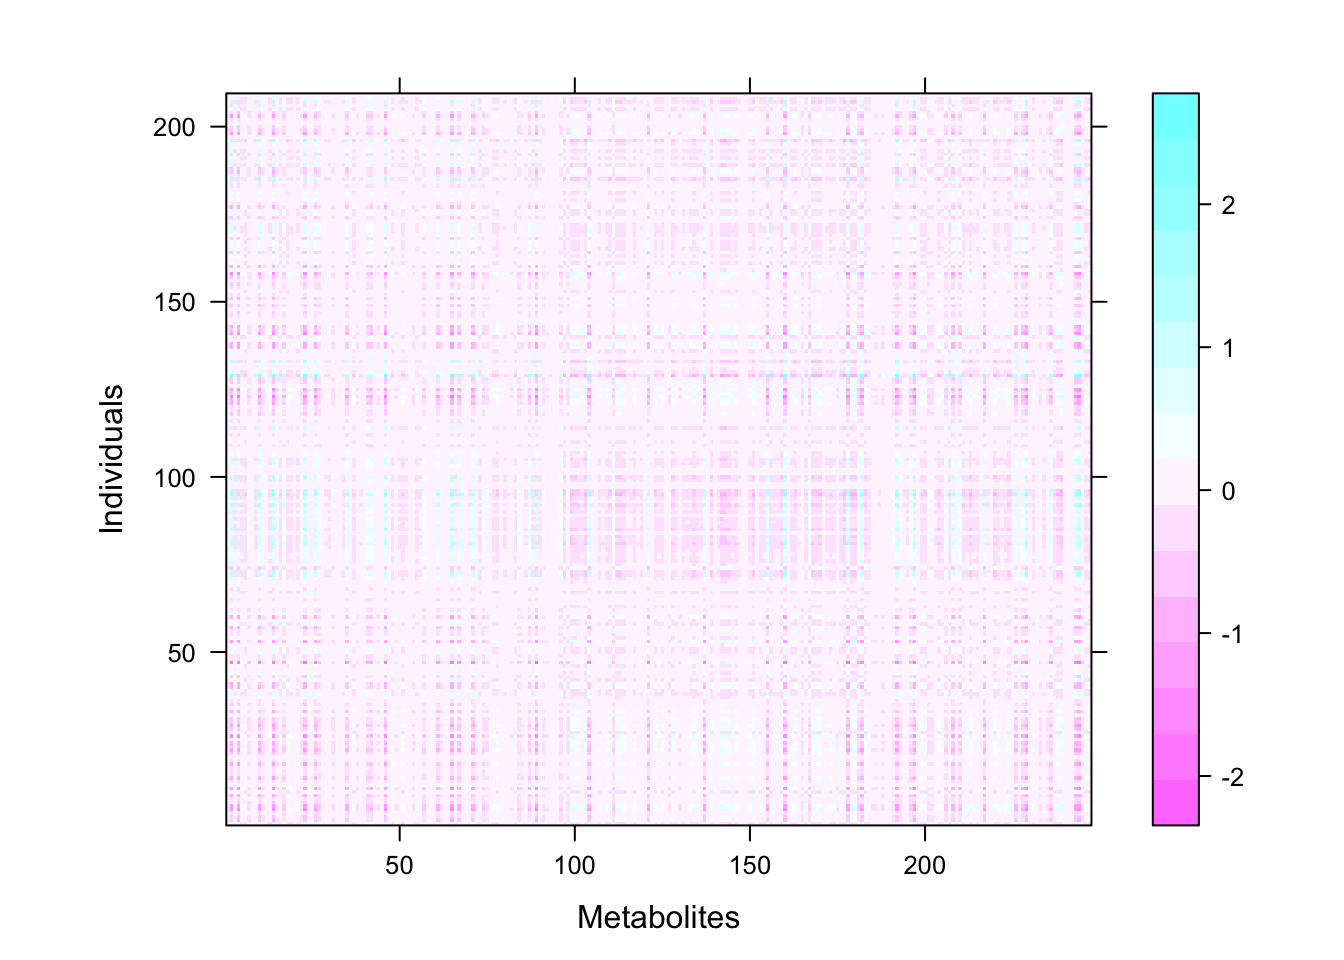
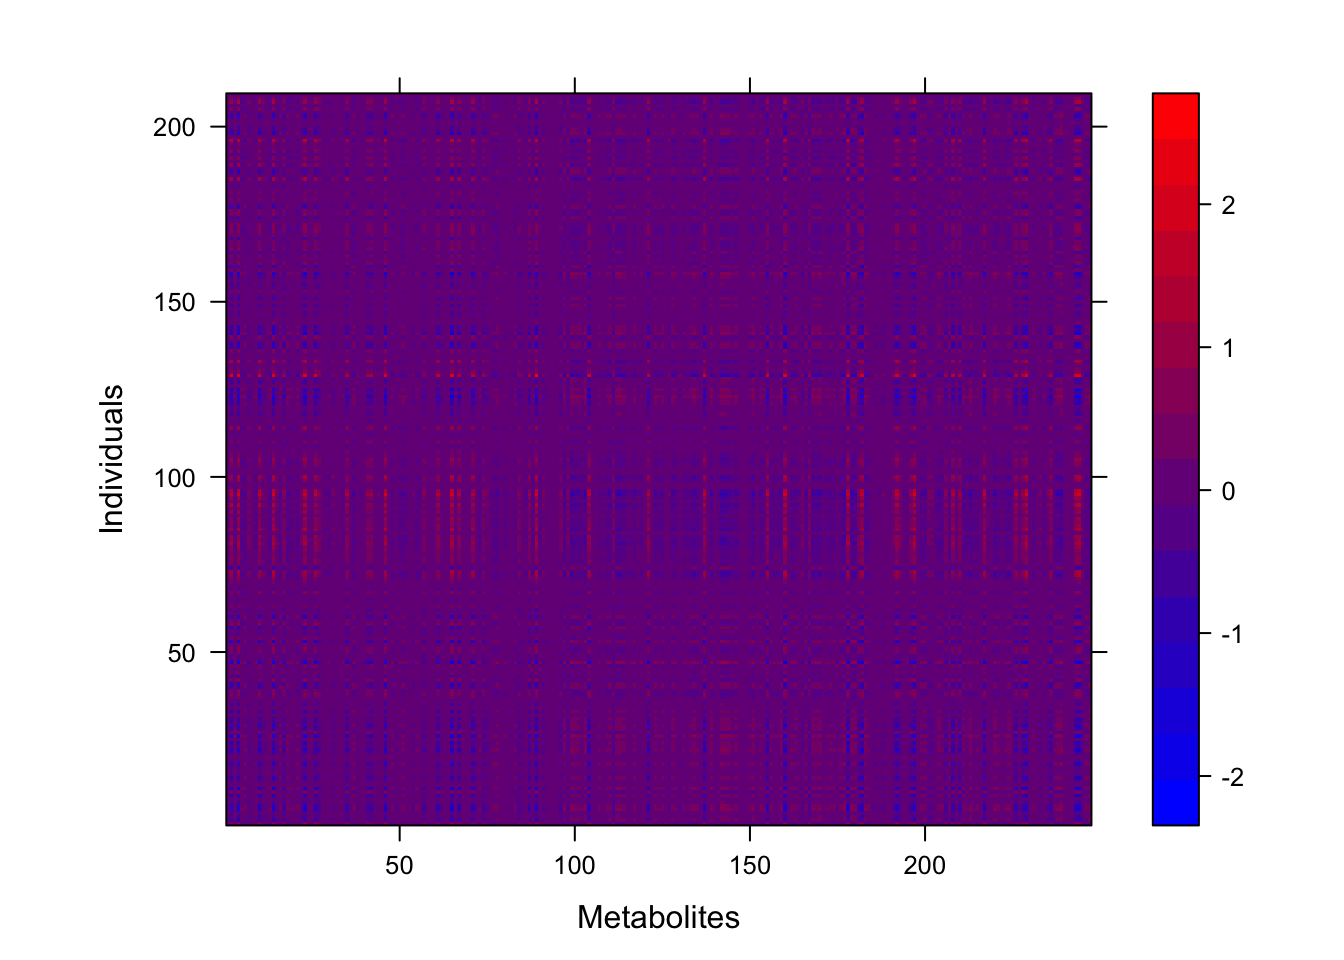
Build site.

diff --git a/docs/first-analysis.html b/docs/first-analysis.html
@@ -432,10 +432,10 @@ This reproducible <a href="http://rmarkdown.rstudio.com">R Markdown</a> analysis
 <div class="panel panel-default">
 <div class="panel-heading">
 <p class="panel-title">
-<a data-toggle="collapse" data-parent="#workflowr-checks" href="#strongRepositoryversionstrongahrefhttpsgithubcomsurbutKKScardiologytreef457f761bbc2e2518872e0af4d936db68d42323dtargetblankf457f76a"> <span class="glyphicon glyphicon-ok text-success" aria-hidden="true"></span> <strong>Repository version:</strong> <a href="https://github.com/surbut/KKScardiology/tree/f457f761bbc2e2518872e0af4d936db68d42323d" target="_blank">f457f76</a> </a>
+<a data-toggle="collapse" data-parent="#workflowr-checks" href="#strongRepositoryversionstrongahrefhttpsgithubcomsurbutKKScardiologytree7d48a7394a8110990b2e7b7ea2c8d1dcd46de533targetblank7d48a73a"> <span class="glyphicon glyphicon-ok text-success" aria-hidden="true"></span> <strong>Repository version:</strong> <a href="https://github.com/surbut/KKScardiology/tree/7d48a7394a8110990b2e7b7ea2c8d1dcd46de533" target="_blank">7d48a73</a> </a>
 </p>
 </div>
[2 lines of base64/hex data omitted]
 <div class="panel-body">
 <p>
 Great! You are using Git for version control. Tracking code development and connecting the code version to the results is critical for reproducibility. The version displayed above was the version of the Git repository at the time these results were generated. <br><br> Note that you need to be careful to ensure that all relevant files for the analysis have been committed to Git prior to generating the results (you can use <code>wflow_publish</code> or <code>wflow_git_commit</code>). workflowr only checks the R Markdown file, but you know if there are other scripts or data files that it depends on. Below is the status of the Git repository when the results were generated:
@@ -483,6 +483,40 @@ Message
 </tr>
 </thead>
 <tbody>
+<tr>
+<td>
+Rmd
+</td>
+<td>
+<a href="https://github.com/surbut/KKScardiology/blob/7d48a7394a8110990b2e7b7ea2c8d1dcd46de533/analysis/first-analysis.Rmd" target="_blank">7d48a73</a>
+</td>
+<td>
+Sarah Urbut
+</td>
+<td>
+2019-07-10
+</td>
+<td>
+wflow_publish(“analysis/first-analysis.rmd”)
+</td>
+</tr>
+<tr>
+<td>
+html
+</td>
+<td>
+<a href="https://rawcdn.githack.com/surbut/KKScardiology/4c8647c34333f4efd85571ce62b59b813cd54b16/docs/first-analysis.html" target="_blank">4c8647c</a>
+</td>
+<td>
+Sarah Urbut
+</td>
+<td>
+2019-07-10
+</td>
+<td>
+Build site.
+</td>
+</tr>
 <tr>
 <td>
 Rmd
@@ -795,6 +829,17 @@ Date
 <tbody>
 <tr>
 <td>
+<a href="https://github.com/surbut/KKScardiology/blob/4c8647c34333f4efd85571ce62b59b813cd54b16/docs/figure/first-analysis.Rmd/unnamed-chunk-3-1.png" target="_blank">4c8647c</a>
+</td>
+<td>
+Sarah Urbut
+</td>
+<td>
+2019-07-10
+</td>
+</tr>
+<tr>
+<td>
 <a href="https://github.com/surbut/KKScardiology/blob/6fa3037b58e5ef352cd5c311b82f124780a76dbf/docs/figure/first-analysis.Rmd/unnamed-chunk-3-1.png" target="_blank">6fa3037</a>
 </td>
 <td>
@@ -808,7 +853,7 @@ Sarah Urbut
 </table>
 </div>
 </div>
-<pre class="r"><code>print(levelplot(t(pcm1),#col.regions = clrs,
+<pre class="r"><code>print(levelplot(t(pcm1),col.regions = colorRampPalette(c(&quot;blue&quot;, &quot;red&quot;))( 100 ),
                 xlab = &quot;Metabolites&quot;,ylab = &quot;Individuals&quot;,colorkey = TRUE))</code></pre>
 <p><img src="figure/first-analysis.Rmd/unnamed-chunk-3-2.png" width="672" style="display: block; margin: auto;" /></p>
 <p>
@@ -835,6 +880,17 @@ Date
 <tbody>
 <tr>
 <td>
+<a href="https://github.com/surbut/KKScardiology/blob/4c8647c34333f4efd85571ce62b59b813cd54b16/docs/figure/first-analysis.Rmd/unnamed-chunk-3-2.png" target="_blank">4c8647c</a>
+</td>
+<td>
+Sarah Urbut
+</td>
+<td>
+2019-07-10
+</td>
+</tr>
+<tr>
+<td>
 <a href="https://github.com/surbut/KKScardiology/blob/038995d6a12a2b703599a0d1cef8c73b71cae227/docs/figure/first-analysis.Rmd/unnamed-chunk-3-2.png" target="_blank">038995d</a>
 </td>
 <td>
@@ -859,10 +915,8 @@ Sarah Urbut
 </table>
 </div>
 </div>
-<pre class="r"><code>print(levelplot(t(pcm2),colorRampPalette(c(&quot;blue&quot;, &quot;red&quot;))( 100 ),
+<pre class="r"><code>print(levelplot(t(pcm2),col.regions = colorRampPalette(c(&quot;blue&quot;, &quot;red&quot;))( 100 ),
                 xlab = &quot;Metabolites&quot;,ylab = &quot;Individuals&quot;,colorkey = TRUE))</code></pre>
-<pre><code>Warning in levelplot.matrix(t(pcm2), colorRampPalette(c(&quot;blue&quot;, &quot;red&quot;))
-(100), : explicit &#39;data&#39; specification ignored</code></pre>
 <p><img src="figure/first-analysis.Rmd/unnamed-chunk-3-3.png" width="672" style="display: block; margin: auto;" /></p>
 <p>
 <button type="button" class="btn btn-default btn-xs btn-workflowr btn-workflowr-fig" data-toggle="collapse" data-target="#fig-unnamed-chunk-3-3">
@@ -886,6 +940,17 @@ Date
 </tr>
 </thead>
 <tbody>
+<tr>
+<td>
+<a href="https://github.com/surbut/KKScardiology/blob/4c8647c34333f4efd85571ce62b59b813cd54b16/docs/figure/first-analysis.Rmd/unnamed-chunk-3-3.png" target="_blank">4c8647c</a>
+</td>
+<td>
+Sarah Urbut
+</td>
+<td>
+2019-07-10
+</td>
+</tr>
 <tr>
 <td>
 <a href="https://github.com/surbut/KKScardiology/blob/038995d6a12a2b703599a0d1cef8c73b71cae227/docs/figure/first-analysis.Rmd/unnamed-chunk-3-3.png" target="_blank">038995d</a>
@@ -912,10 +977,8 @@ Sarah Urbut
 </table>
 </div>
 </div>
-<pre class="r"><code>print(levelplot(t(pcm3),colorRampPalette(c(&quot;blue&quot;, &quot;red&quot;))( 100 ),
+<pre class="r"><code>print(levelplot(t(pcm3),col.regions = colorRampPalette(c(&quot;blue&quot;, &quot;red&quot;))( 100 ),
                 xlab = &quot;Metabolites&quot;,ylab = &quot;Individuals&quot;,colorkey = TRUE))</code></pre>
-<pre><code>Warning in levelplot.matrix(t(pcm3), colorRampPalette(c(&quot;blue&quot;, &quot;red&quot;))
-(100), : explicit &#39;data&#39; specification ignored</code></pre>
 <p><img src="figure/first-analysis.Rmd/unnamed-chunk-3-4.png" width="672" style="display: block; margin: auto;" /></p>
 <p>
 <button type="button" class="btn btn-default btn-xs btn-workflowr btn-workflowr-fig" data-toggle="collapse" data-target="#fig-unnamed-chunk-3-4">
@@ -939,6 +1002,17 @@ Date
 </tr>
 </thead>
 <tbody>
+<tr>
+<td>
+<a href="https://github.com/surbut/KKScardiology/blob/4c8647c34333f4efd85571ce62b59b813cd54b16/docs/figure/first-analysis.Rmd/unnamed-chunk-3-4.png" target="_blank">4c8647c</a>
+</td>
+<td>
+Sarah Urbut
+</td>
+<td>
+2019-07-10
+</td>
+</tr>
 <tr>
 <td>
 <a href="https://github.com/surbut/KKScardiology/blob/038995d6a12a2b703599a0d1cef8c73b71cae227/docs/figure/first-analysis.Rmd/unnamed-chunk-3-4.png" target="_blank">038995d</a>
